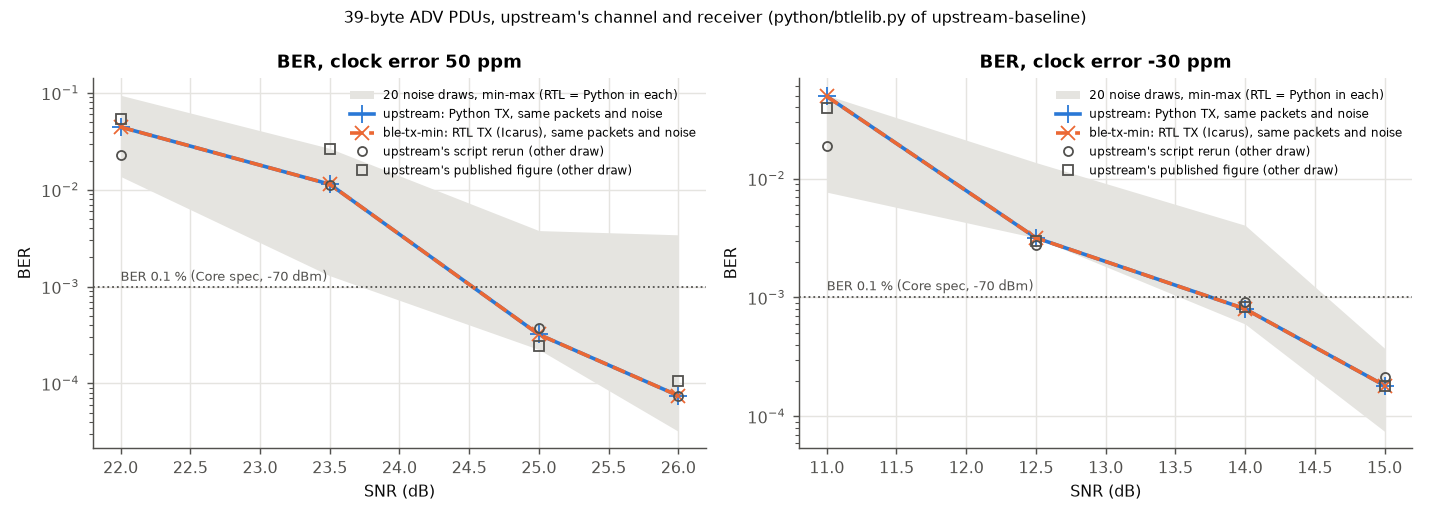
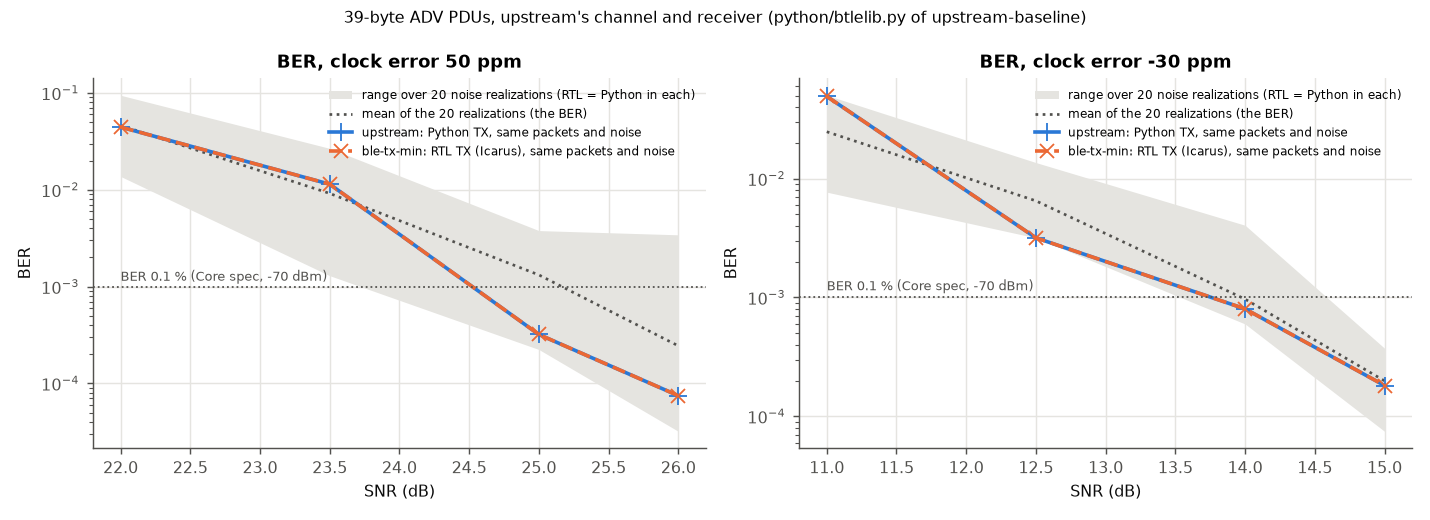
docs: the BER as the mean of the noise realizations; RX_FINAL_DECISIONS.md's cross-branch comparisons
TX_FINAL_DECISIONS.md section 3.3: the estimate of the BER is the mean of the
20 noise realizations (0.1 % at 25.2 dB at 50 ppm and 14.0 dB at -30 ppm), not
their median nor one draw (one draw crosses anywhere in 23.8-25.4 and 13.6-14.4 dB).
The overlay drops upstream's rerun and published points (other draws, kept in
the table) and draws the mean; so do tx_min_ber_ppm*.png, redrawn from the saved
errors by the new `tx_min_figures.py ber-plot` (no simulation).

RX_FINAL_DECISIONS.md: section 3.2 sets its 1 000-packet BER against that mean
(25.12 against 25.17 dB) instead of one-realization values; 3.3 states the noise
of one run; 4, 5.1, 6, 7.1, 7.3 give corrected master, the reference of the
branches' controllers, beside upstream; 8 no longer credits the SRAM with the
GF180 gap (its share is the same in both PDKs).

diff --git a/scripts/figures/tx_min_figures.py b/scripts/figures/tx_min_figures.py
@@ -302,30 +302,52 @@ def fig_ber(out_dir: Path, packets: int, realizations: int) -> None:
                         raise RuntimeError(f"ppm {ppm} snr {snr} realization {r}: RTL and Python BER differ")
                 print(f"ppm {ppm} realization {r}: errors {[c['errors'] for c in curves['rtl']]} (RTL = Python)", flush=True)
                 runs.append(curves)
-        ber = np.array([[c["ber"] for c in run["rtl"]] for run in runs])  # realizations x SNR
         results[ppm] = dict(runs[0], realizations=dict(
             count=realizations, seed="10000000 * realization + 1000 * snr_index + packet + (ppm + 100) * 100000",
             rtl_equals_python_in_every_realization=True,
-            errors=[[c["errors"] for c in run["rtl"]] for run in runs],
-            ber_min=ber.min(axis=0).tolist(), ber_median=np.median(ber, axis=0).tolist(), ber_max=ber.max(axis=0).tolist()))
+            errors=[[c["errors"] for c in run["rtl"]] for run in runs]))
+        _ber_stats(results[ppm])
+    (out_dir / "tx_min_figures_ber.json").write_text(json.dumps(results, indent=2) + "\n")
+    plot_ber(out_dir, results)
+
+
+def _ber_stats(res: dict) -> None:
+    """The band (min, median, max of the realizations) and the mean: all the realizations' errors over
+    all their bits, the BER's estimate (a rare packet whose access address is missed adds 312 errors,
+    so the median of small draws lies below it)."""
+    rz = res["realizations"]
+    bits = np.array([c["bits"] for c in res["rtl"]])
+    err = np.array(rz["errors"])  # realizations x SNR
+    ber = err / bits
+    rz.update(ber_min=ber.min(axis=0).tolist(), ber_median=np.median(ber, axis=0).tolist(),
+              ber_max=ber.max(axis=0).tolist(), ber_mean=(err.sum(axis=0) / (bits * len(err))).tolist())
+
+
+def plot_ber(out_dir: Path, results: dict) -> None:
+    """The figures from the results of fig_ber (tx_min_figures_ber.json): no simulation."""
+    for ppm, res in results.items():
+        _ber_stats(res)
+        rz = res["realizations"]
+        snrs = [c["snr"] for c in res["rtl"]]
+        counts = [c["bits"] // 312 for c in res["rtl"]]
         plt.figure(figsize=(6.4, 4.8))
-        if realizations > 1:
-            plt.fill_between(snrs, np.maximum(ber.min(axis=0), 1e-7), ber.max(axis=0), color="0.85",
-                             label=f"{realizations} noise draws (min-max)")
-        plt.semilogy(snrs, [max(c["ber"], 1e-7) for c in runs[0]["rtl"]], "b+-", markersize=10, label="TX: ble-tx-min RTL")
-        plt.semilogy(snrs, [max(c["ber"], 1e-7) for c in runs[0]["python"]], "rx--", markersize=8, label="TX: upstream's Python model")
+        if rz["count"] > 1:
+            plt.fill_between(snrs, np.maximum(rz["ber_min"], 1e-7), rz["ber_max"], color="0.85",
+                             label=f"range over {rz['count']} noise realizations")
+            plt.semilogy(snrs, rz["ber_mean"], "k:", linewidth=1.5, label=f"mean of {rz['count']} realizations (the BER)")
+        plt.semilogy(snrs, [max(c["ber"], 1e-7) for c in res["rtl"]], "b+-", markersize=10, label="TX: ble-tx-min RTL")
+        plt.semilogy(snrs, [max(c["ber"], 1e-7) for c in res["python"]], "rx--", markersize=8, label="TX: upstream's Python model")
         plt.title(f"BER (Bit Error Rate) with ppm {ppm}")
         plt.xlabel("SNR(dB)")
         plt.ylabel("BER")
         plt.grid()
-        plt.legend(loc="upper right")
+        plt.legend(loc="upper right", fontsize=8)
         plt.figtext(0.5, 0.005, f"39-byte ADV PDUs, random AdvData, {counts} packets per SNR\n"
-                    f"the two lines: the same packets and noise (draw 0); RTL = Python in all {realizations} draws",
+                    f"the two lines: the same packets and noise (realization 0); RTL = Python in all {rz['count']}",
                     ha="center", fontsize=7)
         plt.tight_layout(rect=(0, 0.05, 1, 1))
         plt.savefig(out_dir / f"tx_min_ber_ppm{ppm}.png", dpi=100)
         plt.close()
-    (out_dir / "tx_min_figures_ber.json").write_text(json.dumps(results, indent=2) + "\n")
 
 
 # ---- the transmitter's area per branch ----
@@ -361,7 +383,8 @@ def fig_area(out_dir: Path, area_json: Path) -> None:
 
 def main() -> None:
     p = argparse.ArgumentParser(description=__doc__.split("\n")[0])
-    p.add_argument("figure", choices=("tx", "ber", "area"))
+    p.add_argument("figure", choices=("tx", "ber", "ber-plot", "area"),
+                   help="ber-plot: the BER figures again from out_dir/tx_min_figures_ber.json, no simulation")
     p.add_argument("out_dir", type=Path)
     p.add_argument("area_json", type=Path, nargs="?")
     p.add_argument("--packets", type=int, default=300)
@@ -372,6 +395,11 @@ def main() -> None:
         fig_tx(a.out_dir)
     elif a.figure == "ber":
         fig_ber(a.out_dir, a.packets, a.realizations)
+    elif a.figure == "ber-plot":
+        f = a.out_dir / "tx_min_figures_ber.json"
+        results = json.loads(f.read_text())
+        plot_ber(a.out_dir, results)
+        f.write_text(json.dumps(results, indent=2) + "\n")
     else:
         fig_area(a.out_dir, a.area_json)
 

diff --git a/scripts/figures/tx_final_figures.py b/scripts/figures/tx_final_figures.py
@@ -145,16 +145,13 @@ def fig_ber(d, out):
         b = d["ber"][ppm]
         # the comparison: the same packets and the same noise for both transmitters (draw 0)
         ax.fill_between(b["snr"], b["band_min"], b["band_max"], color=GRID, linewidth=0,
-                        label=f"{b['band_count']} noise draws, min-max (RTL = Python in each)")
+                        label=f"range over {b['band_count']} noise realizations (RTL = Python in each)")
+        ax.semilogy(b["snr"], b["band_mean"], ":", color=INK2, linewidth=1.5,
+                    label=f"mean of the {b['band_count']} realizations (the BER)")
         ax.semilogy(b["snr"], b["upstream_same_noise"], "+-", color=BLUE, markersize=10, linewidth=2,
                     label="upstream: Python TX, same packets and noise")
         ax.semilogy(b["snr"], b["min_rtl"], "x--", color=ORANGE, markersize=8, linewidth=2,
                     label="ble-tx-min: RTL TX (Icarus), same packets and noise")
-        # other noise draws and packets, upstream's script: where they fall, not a comparison
-        ax.semilogy(b["snr"], b["upstream_rerun"], "o", color=INK2, markersize=5, markerfacecolor="none",
-                    label="upstream's script rerun (other draw)")
-        ax.semilogy(b["snr"], b["upstream_published"], "s", color=INK2, markersize=5, markerfacecolor="none",
-                    label="upstream's published figure (other draw)")
         ax.axhline(1e-3, color=INK2, linewidth=1, linestyle=":")
         ax.text(b["snr"][0], 1.15e-3, "BER 0.1 % (Core spec, -70 dBm)", fontsize=7, color=INK2)
         ax.set_title(f"BER, clock error {ppm} ppm")

diff --git a/docs/Final Decisions/RX_FINAL_DECISIONS.md b/docs/Final Decisions/RX_FINAL_DECISIONS.md
@@ -5,7 +5,7 @@
 **Base:** tag `upstream-baseline` (`8540186`), forked from github.com/JiaoXianjun/BTLE  
 **Reference results:** [`open_btle_baseband_chip/`](../../open_btle_baseband_chip/open_btle_baseband_chip.md), upstream's own report (2024-05-13)  
 **Companion:** [TX_FINAL_DECISIONS.md](TX_FINAL_DECISIONS.md) (the transmitter)  
-**Date:** 2026-10-26 (first version 2026-10-23)  
+**Date:** 2026-10-30 (first version 2026-10-23)  
 **Author:** Miguel Simões  
 **Status:** every number below is measured and its evidence is committed on `ble-rx-micro` (§ 11). Pre-layout
 results in 45 nm, a routed FPGA implementation, and signoff-clean layouts of the two receivers in an open
@@ -62,9 +62,9 @@ carries over.
 | SRAM bits in the RX | 32 768 (8 × 512 × 8, two ports) | 2 688 (336 × 8, one port) | **0** | § 4 |
 | RX on the xc7z020: LUTs / flip-flops / RAMB18 / DSP48 | 2 247 / 2 572 / 8 / 48 | **911 / 1 181 / 1 / 2** | **482 / 435 / 0 / 0** | § 6 |
 | `btle_rx` min period, 45 nm (target 62.5 ns) | 1.862 ns | 2.092 ns | **1.461 ns** | § 5 |
-| Switching activity of the controller, `mixed`, against corrected master | −2.9 % | +8.8 % | **−32.4 %** | § 7 |
+| Switching activity of the controller, `mixed`, against corrected master | −2.9 % | +8.8 % | **−32.4 %** (of these, −0.8 and −0.6 points the dead UART removed) | § 7 |
 | RX logic leakage, 45 nm | 1 063.4 µW | 263.2 µW | **138.5 µW** | § 7 |
-| Open-PDK layout | sky130: STA failed (one RX core); global routing failed (whole chip) | **GF180MCU, signoff clean**, with the PDK's SRAM: 513 642 µm² | **GF180MCU, signoff clean**: 144 817 µm² | § 8 |
+| Open-PDK layout | sky130: STA failed (one RX core); global routing failed (whole chip); another PDK and other blocks, not laid out in GF180MCU (§ 8) | **GF180MCU, signoff clean**, with the PDK's SRAM: 513 642 µm² | **GF180MCU, signoff clean**: 144 817 µm² | § 8 |
 | Warnings of synthesis (Vivado, Yosys) and layout (LibreLane) | Vivado: 207 in synthesis, none reviewed | **0 unreviewed** (the gate: Vivado 150, Yosys 0, LibreLane 25, all reviewed exceptions) | **0 unreviewed** (Vivado 150, Yosys 0, LibreLane 16) | § 8.1 |
 
 **In one sentence:** `ble-rx-best` receives every Legacy Advertising packet upstream receives, the same
@@ -162,13 +162,22 @@ point** (upstream: 100/200/300/300), at upstream's four SNR points of each ppm a
 
 | BER 0.1 % at (log-linear interpolation) | 50 ppm | −30 ppm | 20 ppm | 0 ppm |
 |---|---:|---:|---:|---:|
-| upstream, published (`open_btle_baseband_chip.md`) | ≈ 24.5 dB | ≈ 13.5 dB | ≈ 11.5 dB | — |
-| `test_btle_ber.py` rerun, unmodified (`TX_FINAL_DECISIONS.md` § 3.3) | 24.6 dB | 13.9 dB | — | — |
 | upstream's Python receiver, this run (1 000 packets per point) | **25.12 dB** | **14.22 dB** | **12.09 dB** | 8.97 dB |
+| the transmitter's 20 noise realizations together (`TX_FINAL_DECISIONS.md` § 3.3: 100/200/300/300 packets each) | 25.17 dB | 13.97 dB | — | — |
+| one realization of 100/200/300/300 packets: the range over those 20 | 23.8 – 25.4 dB | 13.6 – 14.4 dB | — | — |
+| upstream, published (one realization; read off its figures, its text for 20 ppm) | ≈ 24.6 dB | ≈ 13.8 dB | ≈ 11.5 dB | — |
+| `test_btle_ber.py` rerun, unmodified (one realization) | 24.6 dB | 13.9 dB | — | — |
 
-The three agree to within 0.7 dB, the spread of upstream's few packets per point: the BER of a point near
-the threshold is dominated by the packets whose Access Address is not found (all 312 bits counted wrong),
-a few per hundred (`TX_FINAL_DECISIONS.md` § 3.3).
+**The rows are not one comparison**: each has its own packets and noise. Upstream's published figure and
+the rerun are one realization each at upstream's 100–300 packets per point, and one realization of
+those counts crosses 0.1 % anywhere in a range of 1.5 dB (50 ppm) and 0.8 dB (−30 ppm): both lie in it.
+The BER is the mean over many packets: the 20 realizations together give 25.17 and 13.97 dB, this run's
+1 000 packets per point 25.12 and 14.22 dB (similar packets: the header 0x42 0x25 and 37 random octets
+here, the chip's AdvA and 31 random octets there). One realization tends to lie below the mean: near the
+threshold the BER is dominated by the rare packets whose Access Address is not found (all 312 bits
+counted wrong), which a draw of 100–300 packets often does not hold. 1 000 packets are few for them too
+at −30 ppm: at 14 dB one such packet makes 312 of the 543 errors, and without it the curve would cross
+at about 13.8 dB.
 
 ### 3.3 Packet error rate of the RTL receivers
 
@@ -177,7 +186,9 @@ a few per hundred (`TX_FINAL_DECISIONS.md` § 3.3).
 The same packets and samples as § 3.2, fed to the RTL of the three receivers (`tb_rx_ber.v`, Icarus; each
 receiver with its defaults, one sample every second clock), and upstream's Python receiver beside them. A
 packet is received when the receiver gives it with the right CRC and the PDU sent. 1 000 packets per point,
-the bars the Wilson 95 % interval; 32 000 packets per receiver.
+the bars the Wilson 95 % interval; 32 000 packets per receiver. Each SNR at PER 10 % is one noise
+realization of 1 000 packets per point (about ±0.1 dB from the noise); the differences between the
+receivers are measured on the same samples, so the noise does not enter them.
 
 | SNR at PER 10 % (log-linear) | 0 ppm | 20 ppm | −30 ppm | 50 ppm |
 |---|---:|---:|---:|---:|
@@ -197,7 +208,8 @@ the bars the Wilson 95 % interval; 32 000 packets per receiver.
   about 3 %, with 5–6 dB almost none (0 ppm: 0.5 % at 13 dB, 0 at 14 dB).
 - With the packet at a random time (64–127 samples and a fraction of a sample after the start: the
   receiver does not know the symbol timing), every receiver needs 0.2–0.7 dB more (PER 10 % at 9.53,
-  12.22, 14.73 and 25.73 dB for upstream), and the picture is the same: upstream's RTL, `ble-rx-best` and
+  12.22, 14.73 and 25.73 dB for upstream; another run, other noise: the smallest of these differences is
+  about twice the uncertainty of one run), and the picture is the same: upstream's RTL, `ble-rx-best` and
   the Python receiver receive the same 25 175 packets of 32 000, and `ble-rx-micro` needs 11.04, 14.03,
   16.43 and 28.18 dB (+1.5, +1.8, +1.7, +2.5 dB)
   ([`rx_final_per_random.png`](../../results/figures/rx-final/rx_final_per_random.png),
@@ -265,6 +277,11 @@ included, untouched):
 | upstream | 50 295 | 4 578 | 71 706.4 | 15 / 1 136 070 |
 | `ble-rx-best` | 23 119 | 4 003 | 38 680.9 | 8 / 1 105 990 |
 | `ble-rx-micro` | 19 525 | 3 419 | 32 988.5 | 7 / 1 103 302 |
+| corrected master (`TX_FINAL_DECISIONS.md` § 4) | 52 357 | 4 722 | 74 684.8 | 15 / 1 136 070 |
+
+The two branches are corrected master with their receiver, so corrected master is their controllers'
+reference: −48.2 % and −55.8 % against it. Against upstream (−46.1 %, −54.0 %) the difference also holds
+corrected master's own changes, 2 978.4 µm² more than upstream, most in its transmitter.
 
 ## 5. Timing
 
@@ -282,7 +299,9 @@ clock-to-Q + setup (Nangate45 typical, no wires); target 62.5 ns (the 16 MHz bas
 The one multiplier of `ble-rx-best` takes its operands through a multiplexer in the clock of the history
 read (+0.23 ns; ABC's mapping moves it by about 0.1 ns from run to run); `ble-rx-micro`'s 8-bit one is the shortest receiver of every branch. The controllers of
 the two branches time at the transmitter of corrected master (the audit's Gaussian tail,
-`TX_FINAL_DECISIONS.md` § 5.1); at 16 MHz none of it matters (slack > 59 ns). `ble-rx-best`'s macro and
+`TX_FINAL_DECISIONS.md` § 5.1): corrected master's controller has a min period of 3.410 ns on that path,
+so against it the two branches move the controller by −0.034 and +0.007 ns; the step from upstream's
+1.991 ns is the transmitter's, not the receivers'. At 16 MHz none of it matters (slack > 59 ns). `ble-rx-best`'s macro and
 its address are not timed here (no timing model; § 8 times the GF180 SRAM).
 
 ### 5.2 In the FPGA and in GF180MCU
@@ -327,6 +346,10 @@ pins, the resets deasserted in the power analysis; § 8.1), the same for the thr
 - **The receiver goes from 2 247 LUTs to 911 and 482** (−59 % and −79 %), its flip-flops from 2 572 to
   1 181 and 435. The 2024 receiver (1 544 LUTs, its packet RAMs in 96 LUTRAM) is the published flow's,
   with IOs; it is the calibration of the flow, not a configuration compared.
+- **The controller rows hold corrected master's transmitter**, not upstream's: corrected master's
+  controller is 4 535 LUTs / 5 900 flip-flops, 38 block RAM tiles, 48 DSPs, 0.211 W
+  (`TX_FINAL_DECISIONS.md` § 6). Against it the branches' controllers take 1 124 and 1 550 LUTs and
+  1 391 and 2 137 flip-flops fewer.
 - Vivado's power is vectorless (default toggle rates) and rounds to 1 mW: an estimate; 0.106 W of every
   total is the device's static power.
 
@@ -374,7 +397,8 @@ more than upstream**: one multiplier computes two products in two clocks, its op
 the single-port RAM's clock-domain logic (132 flip-flops on the AXI clock) toggle; the clock load falls
 (−15.1 %), the data rises (+62.9 %). **`ble-rx-micro` switches a third less**: one decoder instead of
 eight, 584 flip-flops fewer, an 8-bit datapath (clock −27.4 %, data −43.7 % in `mixed`). The cleanup of
-§ 8.1 removes no logic that toggles but the link layer's dead TX UART: −0.8 and −0.6 points.
+§ 8.1 removes no logic that toggles but the link layer's dead TX UART: −0.8 and −0.6 points, which
+corrected master still has; the receivers' own share is about +9.6 % and −31.8 %.
 
 **7.2 The SRAMs' energy (SPICE).** **`ble-rx-best`'s 336 × 8 macro could not be characterized**: OpenRAM's flow probes the address of all ones, which a 336-word macro lacks; `openram_char.py` now probes its last word, and then the measurement at a 5 ns period fails (ngspice: "Couldn't run a simulation", `results/power/sram-char-rx-final-5ns/`), and the search for a feasible period did not end within the 6 h limit (`results/power/sram-char-rx-final/`). **Upstream's 512 × 8 two-port macro** (eight in its receiver) could not be characterized either: it did not finish in 6 h in run `sram-char`, and run again without that limit it ended after 14.4 h with OpenRAM's "Sense amp enable timing error" at the 5 ns period (`results/power/sram-char-rx-final-upstream/`): the macro as generated does not read at that period, and its energy stays unknown. For reference, the one-port 512 × 8 of `ble-rx-min` (the same column width, more words on each bitline) costs 1.161 pJ per write, 1.068 pJ per read and 25.11 µW of settled leakage (`RX_BRANCH_COMPARISON.md` § 15.4): a bound from above for `ble-rx-best`'s macro. `ble-rx-micro` has no SRAM.
 
@@ -388,7 +412,9 @@ eight, 584 flip-flops fewer, an 8-bit datapath (clock −27.4 %, data −43.7 % 
 | **`ble-rx-micro`** | **138.51 µW** | 62.26 µW | 675.53 µW |
 
 The macros are not included (§ 7.2). In this 45 nm library (predictive, leaky) the logic dominates:
-upstream's receiver leaks 7.7 times `ble-rx-micro`'s.
+upstream's receiver leaks 7.7 times `ble-rx-micro`'s. The controller column holds corrected master's
+transmitter in the two branches: it leaks 182.58 µW against upstream's 112.61 µW
+(`TX_FINAL_DECISIONS.md` § 7.3), about 70 µW of the branches' controllers that is not the receiver's.
 
 **7.4 In GF180MCU** (§ 8), OpenSTA's vectorless estimate at 5 V, the default activity of every net:
 67.54 mW for `ble-rx-best` (its SRAM's internal power included) and 23.51 mW for `ble-rx-micro`; leakage
@@ -423,7 +449,7 @@ The thesis laid out the two final receivers, `btle_rx` alone, with LibreLane (Op
 | DRC, KLayout (the foundry's deck, whole GDS) | **0** (the SRAM's inside included) | **0** |
 | DRC, Magic | 2 516, **all inside the GlobalFoundries SRAM** (`magic_drc_sram.txt`: 0 outside it), whose own layout Magic's deck rejects | 0 |
 | LVS (Netgen) / antenna / routing DRC | clean / 0 / 0 | clean / 0 / 0 |
-| Worst setup slack: ss / tt / ff | +13.934 / +36.258 / +42.954 ns | +2.266 / +8.463 / +11.202 ns (`clkb` at 20 ns) |
+| Worst setup slack: ss / tt / ff | +13.934 / +36.258 / +42.954 ns (`clkb` at 62.5 ns) | +2.266 / +8.463 / +11.202 ns (`clkb` at 20 ns) |
 | Worst hold slack (9 corners) | +0.157 ns | +0.124 ns |
 | Max slew / max capacitance violations | 0 / 0 | 0 / 0 |
 | Max fanout (10, LibreLane's for the PDK; the liberty sets none) | every data net within it; 7 clock-tree buffers at 11–13 | every data net within it; 1 clock-tree buffer at 11 |
@@ -440,8 +466,13 @@ The thesis laid out the two final receivers, `btle_rx` alone, with LibreLane (Op
 | Taps, end caps, antenna diodes | 33 274.8 | 17 232.3 |
 | **Placed cells + macros** | **513 641.6** | **144 817.2** (−71.8 %) |
 
-- **In GF180MCU the gap widens**: `ble-rx-micro` is 28.2 % of `ble-rx-best` (33.4 % in 45 nm), because
-  the PDK's smallest SRAM that holds 336 words is a 512 × 8 of 209 400 µm², sized for its periphery.
+- **In GF180MCU the gap widens**: `ble-rx-micro` is 28.2 % of `ble-rx-best` (33.4 % in 45 nm), and not
+  through the SRAM, which is about the same share of `ble-rx-best` in both (40.8 % here, 38.8 % in
+  45 nm). Without it `ble-rx-micro` is 47.6 % of the rest of `ble-rx-best` here, 54.6 % in 45 nm:
+  `ble-rx-best` has 2.9 times the timing-repair buffers and clock trees (its tighter targets, below),
+  1.9 times the taps and end caps (a die of 1 150 µm against 760 µm, sized for the SRAM) and 2.0 times
+  the logic (1.8 times in 45 nm). The two runs differ in settings (the targets below; `clkb` at 16 and
+  50 MHz): the ratio is of these two layouts, not of the two receivers alone.
 - The settings of the two runs, all recorded in `run.sh` (§ 8.1): `ble-rx-best` places and routes with
   tighter targets (max transition 2.0 ns, max fanout 8, signoff with the library's: without them pins of
   one net end 0.03 ns over the max slew at ss), its SRAM at x = 70 µm (at 60 a strap of the power grid

diff --git a/docs/Final Decisions/TX_FINAL_DECISIONS.md b/docs/Final Decisions/TX_FINAL_DECISIONS.md
@@ -4,7 +4,7 @@
 **Branch:** `ble-tx-min` (the runs of this document: `a613226`, and after the synthesis-warning cleanup `b81bf288`, the same circuit, proved: § 8.1)  
 **Base:** tag `upstream-baseline` (`8540186`), forked from github.com/JiaoXianjun/BTLE  
 **Reference results:** [`open_btle_baseband_chip/`](../../open_btle_baseband_chip/open_btle_baseband_chip.md), upstream's own report (2024-05-13)  
-**Date:** 2026-10-27 (first version 2026-10-17)  
+**Date:** 2026-10-30 (first version 2026-10-17)  
 **Author:** Miguel Simões  
 **Status:** every number below is measured and its evidence is committed (§ 12). Pre-layout
 results in 45 nm, a routed FPGA implementation, and a signoff-clean layout of the transmitter in an open
@@ -54,7 +54,7 @@ rate and the SRAMs' energy (§§ 3, 7.2) those of `a613226`, which the proof car
 | Worst path | RX demodulator | TX Gaussian tail | **RX demodulator** | RX demodulator | § 5 |
 | Switching activity of the controller, `mixed` | — | reference | **−5.15 %** | −1.58 % | § 7 |
 | TX leakage, 45 nm: logic + SRAM (µW) | 112.61 + not characterized | 182.58 + not characterized | **51.71 + 16.41 = 68.12** | 87.84 + 0 = 87.84 | § 7 |
-| BER 0.1 % at 50 ppm / −30 ppm | ≈ 24.5 / ≈ 13.5 dB (published); 24.5 / 13.8 dB with the same noise as the RTL | — | **24.5 / 13.8 dB** (RTL; the same errors as upstream's TX in 20 noise draws) | the same TX bits | § 3.3 |
+| BER 0.1 % at 50 ppm / −30 ppm | 25.2 / 14.0 dB (the mean of 20 noise realizations; its published figure, one realization: ≈ 24.6 / ≈ 13.8 dB) | — | **the same** (RTL: the same errors as upstream's TX in each of the 20 realizations) | the same TX bits | § 3.3 |
 | Open-PDK layout | sky130: global routing failed (whole chip); STA failed (RX core) | — | **GF180MCU, signoff clean**, with the AdvA OTP: 234 009.0 µm² | 160 784.9 µm² | § 8 |
 | Warnings of synthesis (Vivado, Yosys) and layout (LibreLane) | Vivado: 207 in synthesis, none reviewed | Vivado: 206 | **0 unreviewed** (Vivado 109 in synthesis, Yosys 0, LibreLane 37, all reviewed exceptions) | **0 unreviewed** (109, 0, 29) | § 8.1 |
 
@@ -149,7 +149,8 @@ It stands here for the form of the result (axes, SNR points, where the curve cro
 comparison is inside the right column: the same packets and the same noise through the `ble-tx-min` RTL
 (blue) and upstream's Python transmitter (red, `btle_tx` of `python/btlelib.py`, whose transmitter is
 upstream's to the bit: the thesis changed only where it writes its debug files). The two lines are one.
-The grey band is how far the BER of these packet counts moves from one noise draw to another (20 draws).
+The grey band is how far the BER of these packet counts moves from one noise draw to another (20 draws),
+and the dotted line is their mean (all their errors over all their bits): the estimate of the BER.
 
 ![BER overlay](../../results/figures/tx-final/tx_final_ber.png)
 
@@ -162,22 +163,23 @@ seed for the RTL's waveform and the Python model's: **in all 20 draws, at every 
 same errors** (`results/figures/tx-min/tx_min_figures_ber.json`; draw 0 is the one of the first version of
 this document, reproduced exactly). Upstream's script run again unmodified
 (`results/figures/tx-final/upstream_ber_rerun.txt`) and its published figure (read off the PNG, about
-±2 %) are two more draws, with their own packets: they are placed against the band, not against a line.
+±2 %) are two more draws, with their own packets: they are in the table, placed against the band, and
+not in the figure, whose lines share their packets and noise.
 
-| SNR (dB) | upstream TX, same noise | **`ble-tx-min` RTL, same noise** | 20 draws: min – median – max | upstream rerun | upstream published |
-|---:|---:|---:|---:|---:|---:|
-| **50 ppm** | | | | | |
-| 22.0 | 4.45 × 10⁻² | **4.45 × 10⁻²** | 1.4 × 10⁻² – 4.4 × 10⁻² – 9.5 × 10⁻² | 2.27 × 10⁻² | ≈ 5.4 × 10⁻² |
-| 23.5 | 1.14 × 10⁻² | **1.14 × 10⁻²** | 1.3 × 10⁻³ – 1.1 × 10⁻² – 2.7 × 10⁻² | 1.12 × 10⁻² | ≈ 2.7 × 10⁻² |
-| 25.0 | 3.21 × 10⁻⁴ | **3.21 × 10⁻⁴** | 2.2 × 10⁻⁴ – 3.4 × 10⁻⁴ – 3.8 × 10⁻³ | 3.74 × 10⁻⁴ | ≈ 2.5 × 10⁻⁴ |
-| 26.0 | 7.48 × 10⁻⁵ | **7.48 × 10⁻⁵** | 3.2 × 10⁻⁵ – 7.5 × 10⁻⁵ – 3.4 × 10⁻³ | 7.48 × 10⁻⁵ | ≈ 1.1 × 10⁻⁴ |
-| BER 0.1 % at | 24.5 dB | **24.5 dB** | median: 24.5 dB | 24.6 dB | 24.6 dB |
-| **−30 ppm** | | | | | |
-| 11.0 | 4.92 × 10⁻² | **4.92 × 10⁻²** | 7.7 × 10⁻³ – 2.0 × 10⁻² – 5.0 × 10⁻² | 1.89 × 10⁻² | ≈ 3.9 × 10⁻² |
-| 12.5 | 3.17 × 10⁻³ | **3.17 × 10⁻³** | 3.2 × 10⁻³ – 4.1 × 10⁻³ – 1.4 × 10⁻² | 2.79 × 10⁻³ | ≈ 3.0 × 10⁻³ |
-| 14.0 | 8.01 × 10⁻⁴ | **8.01 × 10⁻⁴** | 6.0 × 10⁻⁴ – 8.2 × 10⁻⁴ – 4.0 × 10⁻³ | 9.08 × 10⁻⁴ | ≈ 8.4 × 10⁻⁴ |
-| 15.0 | 1.82 × 10⁻⁴ | **1.82 × 10⁻⁴** | 7.5 × 10⁻⁵ – 1.9 × 10⁻⁴ – 3.7 × 10⁻⁴ | 2.14 × 10⁻⁴ | ≈ 1.8 × 10⁻⁴ |
-| BER 0.1 % at | 13.8 dB | **13.8 dB** | median: 13.8 dB | 13.9 dB | 13.8 dB |
+| SNR (dB) | upstream TX, same noise | **`ble-tx-min` RTL, same noise** | 20 draws: min – median – max | **20 draws: mean** | upstream rerun | upstream published |
+|---:|---:|---:|---:|---:|---:|---:|
+| **50 ppm** | | | | | | |
+| 22.0 | 4.45 × 10⁻² | **4.45 × 10⁻²** | 1.4 × 10⁻² – 4.4 × 10⁻² – 9.5 × 10⁻² | **4.63 × 10⁻²** | 2.27 × 10⁻² | ≈ 5.4 × 10⁻² |
+| 23.5 | 1.14 × 10⁻² | **1.14 × 10⁻²** | 1.3 × 10⁻³ – 1.1 × 10⁻² – 2.7 × 10⁻² | **9.18 × 10⁻³** | 1.12 × 10⁻² | ≈ 2.7 × 10⁻² |
+| 25.0 | 3.21 × 10⁻⁴ | **3.21 × 10⁻⁴** | 2.2 × 10⁻⁴ – 3.4 × 10⁻⁴ – 3.8 × 10⁻³ | **1.32 × 10⁻³** | 3.74 × 10⁻⁴ | ≈ 2.5 × 10⁻⁴ |
+| 26.0 | 7.48 × 10⁻⁵ | **7.48 × 10⁻⁵** | 3.2 × 10⁻⁵ – 7.5 × 10⁻⁵ – 3.4 × 10⁻³ | **2.45 × 10⁻⁴** | 7.48 × 10⁻⁵ | ≈ 1.1 × 10⁻⁴ |
+| BER 0.1 % at | 24.5 dB | **24.5 dB** | one draw: 23.8 – 25.4 dB | **25.2 dB** | 24.6 dB | 24.6 dB |
+| **−30 ppm** | | | | | | |
+| 11.0 | 4.92 × 10⁻² | **4.92 × 10⁻²** | 7.7 × 10⁻³ – 2.0 × 10⁻² – 5.0 × 10⁻² | **2.48 × 10⁻²** | 1.89 × 10⁻² | ≈ 3.9 × 10⁻² |
+| 12.5 | 3.17 × 10⁻³ | **3.17 × 10⁻³** | 3.2 × 10⁻³ – 4.1 × 10⁻³ – 1.4 × 10⁻² | **6.50 × 10⁻³** | 2.79 × 10⁻³ | ≈ 3.0 × 10⁻³ |
+| 14.0 | 8.01 × 10⁻⁴ | **8.01 × 10⁻⁴** | 6.0 × 10⁻⁴ – 8.2 × 10⁻⁴ – 4.0 × 10⁻³ | **9.68 × 10⁻⁴** | 9.08 × 10⁻⁴ | ≈ 8.4 × 10⁻⁴ |
+| 15.0 | 1.82 × 10⁻⁴ | **1.82 × 10⁻⁴** | 7.5 × 10⁻⁵ – 1.9 × 10⁻⁴ – 3.7 × 10⁻⁴ | **1.99 × 10⁻⁴** | 2.14 × 10⁻⁴ | ≈ 1.8 × 10⁻⁴ |
+| BER 0.1 % at | 13.8 dB | **13.8 dB** | one draw: 13.6 – 14.4 dB | **14.0 dB** | 13.9 dB | 13.8 dB |
 
 (0.1 % by log-linear interpolation between the points.) What the table shows:
 
@@ -186,14 +188,19 @@ this document, reproduced exactly). Upstream's script run again unmodified
 - **The noise draw changes a lot at low SNR**: at 22 dB the 20 draws span 1.4 × 10⁻² to 9.5 × 10⁻², a
   factor of 7. A packet whose access address is not found counts all its 312 bits as wrong, so at 100
   packets each lost packet adds 1 × 10⁻² to the BER; at 25–26 dB one lost packet in 300 lifts the point
-  by about 3 × 10⁻³ (the band's top). The median, not one draw, is the estimate.
+  by about 3 × 10⁻³ (the band's top). Such packets are rare, so most draws hold none near the threshold:
+  the median lies below the mean (25 dB, 50 ppm: 3.4 × 10⁻⁴ against 1.32 × 10⁻³). The estimate of the BER
+  is the mean of the 20 draws (6 000 packets at the top two points), not one draw nor their median.
 - **Upstream's two runs fall where another draw falls**: 14 of their 16 points lie inside the band. The
   exceptions, −30 ppm at 12.5 dB (rerun 2.79 × 10⁻³, published ≈ 3.0 × 10⁻³, band from 3.17 × 10⁻³), are
   within 12 % of the band's edge, and their packets are not ours (fully random payloads, against the
   chip's AdvA plus random AdvData); 20 draws of one set of packets do not cover every set.
-- **The 0.1 % point**: 24.5–24.6 dB at 50 ppm and 13.8–13.9 dB at −30 ppm in every curve (upstream's report
-  writes "about 13.5" for the latter, read off its figure). The Core spec's sensitivity is met at the
-  same SNR.
+- **The 0.1 % point**: **25.2 dB at 50 ppm and 14.0 dB at −30 ppm**, the mean of the 20 draws (as the
+  receiver's 1 000 packets per point give, 25.12 and 14.22 dB: `RX_FINAL_DECISIONS.md` § 3.2). One draw
+  of these packet counts crosses anywhere in 23.8–25.4 dB and 13.6–14.4 dB; the RTL's draw 0 (24.5,
+  13.8 dB), upstream's rerun (24.6, 13.9 dB) and its published figure (24.6, 13.8 dB; its report writes
+  "about 13.5" for the latter) are three such draws. The transmitter moves none of them: the Core spec's
+  sensitivity is met at the same SNR with either transmitter.
 
 In the first version of this document the table and the overlay set one draw of the RTL against the
 rerun, another draw, and the RTL looked worse at the lowest SNR (4.45 against 2.27 × 10⁻² at 22 dB). That
@@ -672,7 +679,7 @@ BT = 0.5, modulation index 0.5); rewriting a packet byte while it is sent; an AX
 | Layout and OTP | `results/layout/tx-clean-gf180*/` (the first version: `tx-min-gf180*`, again at `a359b08a`: `tx-before-gf180*`), `results/otp/gf180-efuse/` | `scripts/layout/tx_min_gf180/run.sh <label> <rev> [sram64]` (`TX_MIN_VALIDATION.md` § 10) |
 | The cleanup: equivalence, validation, warning gate | `results/validation/min-clean/equiv_cleanup/`, `min-clean-*/`; `results/validation/tx-clean-warning-gate.txt` | `scripts/validation/equiv_cleanup/run_equiv_cleanup.sh <label> a359b08a`; `scripts/validation/synth_warning_gate.py --vivado <log> --yosys <area dir> --librelane <layout dir>` |
 | Validation | `results/validation/min-*` | `TX_MIN_VALIDATION.md` § 10 |
-| Figures of §§ 3–8 | `results/figures/tx-min/`, `results/figures/tx-final/` (`data.json` names the source of every number) | `python3 scripts/figures/tx_min_figures.py tx|ber <dir>` (`ber`: `--realizations 20`, the default; in a Windows worktree under WSL, `BTLE_UPSTREAM_PY=<upstream-baseline's python/, extracted>`); `python3 scripts/figures/tx_final_figures.py results/figures/tx-final/data.json <dir>` |
+| Figures of §§ 3–8 | `results/figures/tx-min/`, `results/figures/tx-final/` (`data.json` names the source of every number) | `python3 scripts/figures/tx_min_figures.py tx|ber|ber-plot <dir>` (`ber-plot`: the BER figures again from `tx_min_figures_ber.json`, no simulation; `ber`: `--realizations 20`, the default; in a Windows worktree under WSL, `BTLE_UPSTREAM_PY=<upstream-baseline's python/, extracted>`); `python3 scripts/figures/tx_final_figures.py results/figures/tx-final/data.json <dir>` |
 | Upstream's BER, rerun | `results/figures/tx-final/upstream_ber_rerun.txt` | `git archive upstream-baseline python \| tar -x; cd python; python3 test_btle_ber.py 50` (and `-30`) |
 
 Related reports: `docs/Validation/TX_MIN_VALIDATION.md` (this branch in full), `TX_ROM_VALIDATION.md`,

diff --git a/CHANGES.md b/CHANGES.md
@@ -92,6 +92,7 @@ progress and says so.
 | 2026-10-27 | validation | *Branch `ble-tx-min`.* `scripts/validation/synth_warning_gate.py` and `synth_warning_exceptions.tsv` (from `ble-rx-micro`, with the transmitter's exceptions); `impl.tcl` mode `ooc_hd`; `run_activity.sh` gives the RAM models `rst` for the reference's netlist; the GF180 layout's settings (no I/O cells, no heuristic diodes, the macros timed by their liberties; the eFuse blocks and the SRAM placed so that every strap of the power grid gets its vias, no pins under the eFuse row for the SRAM's floorplan, the slew repair's margin, the clock tree's sink clustering; `CONFIG_OVERRIDES`). | `results/validation/tx-clean-warning-gate.txt` |
 | 2026-10-27 | compare | *Branch `ble-tx-min`.* Run `tx-clean`: both AdvData stores after the cleanup, every synthesis and layout result again (45 nm, xc7z020, GF180MCU), the validation again (144/144, 270/270, 6/6, lint 4/4, the SRAM's model 144/144). 0 unreviewed warnings in Vivado, Yosys and LibreLane; both layouts signoff clean, every strap with its vias. `TX_FINAL_DECISIONS.md` updated, new § 8.1. | `docs/Final Decisions/TX_FINAL_DECISIONS.md` |
 | 2026-10-28 | docs | *Branch `ble-tx-min`.* The BER of `TX_FINAL_DECISIONS.md` § 3.3 compared like with like: the overlay and the table set the RTL against upstream's Python transmitter with the same packets and noise (they were set against upstream's script rerun, another noise draw, which made the RTL look worse at the lowest SNR); `tx_min_figures.py ber` runs 20 noise draws (`--realizations`, draw 0 the published one, reproduced exactly), RTL = Python in every draw, the band of the draws drawn in both figures; upstream's rerun and published points (read off its PNG) placed against the band; `BTLE_UPSTREAM_PY` for a Windows worktree under WSL. | `results/figures/tx-min/tx_min_figures_ber.json`, `results/figures/tx-final/` |
+| 2026-10-30 | docs | *Every branch.* The BER and the cross-branch comparisons of the final decisions: `TX_FINAL_DECISIONS.md` § 3.3 takes the mean of the 20 noise realizations as the BER (0.1 % at 25.2 and 14.0 dB; the median and one draw lie below it, one draw crossing anywhere in 23.8–25.4 and 13.6–14.4 dB); its figure drops upstream's rerun and published points (another draw each, in the table) and draws the mean, as do `tx_min_ber_ppm*.png` (`tx_min_figures.py ber-plot`: from the saved errors, no simulation). `RX_FINAL_DECISIONS.md` § 3.2 sets its 1 000-packet BER against that mean (25.12 against 25.17 dB) instead of one-realization values; § 3.3 states the noise of one run; §§ 4, 5.1, 6, 7.1, 7.3 give corrected master, the reference of the branches' controllers, beside upstream; § 8 no longer credits the SRAM with the GF180 gap. | `results/figures/tx-final/`, `results/figures/tx-min/` |
 
 ## Files inherited and not modified
 

diff --git a/docs/Validation/TX_MIN_VALIDATION.md b/docs/Validation/TX_MIN_VALIDATION.md
@@ -353,7 +353,7 @@ model, 0 samples differ in every case.
 | `tx_min_py_fig3.png` | `py-fig3.png` | upstream's own packet, example 2 (PDU `0100`, channel 10, 656 samples, the same axes as upstream's): upsampled bit, Gaussian filter output, normalized frequency offset; I and Q, all from the RTL |
 | `tx_min_py_fig4.png` | `py-fig4.png` | the same waveform after upstream's channel (20 dB, 0 ppm), the receiver's decision signal and best phase: CRC OK, the PDU received equal to the one sent |
 | `tx_min_py_fig3_adv.png`, `tx_min_py_fig4_adv.png` | — | the same two figures for a 39-byte ADV PDU (AdvA from the ROM, upstream's BER AdvData, channel 37, 3 024 samples), the channel 20 dB and 20 ppm: CRC OK, the PDU received equal to the one sent |
-| `tx_min_ber_ppm50.png`, `tx_min_ber_ppm-30.png` | `open_btle_baseband_chip_21_1.png`, `_23_1.png` | BER against SNR at 50 and −30 ppm, 39-byte ADV PDUs with random AdvData (100/200/300/300 packets per point), the transmitter the RTL and, with the same noise, upstream's Python model: the two curves are identical, in each of 20 noise draws (the grey band: min–max of the draws; the lines: draw 0); 0.1 % BER at about 24.5 dB (50 ppm) and 13.8 dB (−30 ppm), as upstream's. Upstream's published figure is another draw, not a comparison (`TX_FINAL_DECISIONS.md` § 3.3) |
+| `tx_min_ber_ppm50.png`, `tx_min_ber_ppm-30.png` | `open_btle_baseband_chip_21_1.png`, `_23_1.png` | BER against SNR at 50 and −30 ppm, 39-byte ADV PDUs with random AdvData (100/200/300/300 packets per point), the transmitter the RTL and, with the same noise, upstream's Python model: the two curves are identical, in each of 20 noise draws (the grey band: min–max of the draws; the dotted line: their mean, the BER's estimate; the two lines: draw 0); 0.1 % BER at 25.2 dB (50 ppm) and 14.0 dB (−30 ppm) for the mean, anywhere in 23.8–25.4 and 13.6–14.4 dB for one draw. Upstream's published figure (24.6, 13.8 dB) is one such draw, not a comparison (`TX_FINAL_DECISIONS.md` § 3.3) |
 | `tx_min_area.png` | — | the transmitter's area (logic and macros) of `master`, `ble-tx-rom` and both stores of this branch |
 | `efuse_async_mem_1x8.png`, `efuse_xyce.png` | — | the eFuse block's layout (KLayout) and its Xyce programming and sensing waveforms |
 | `tx_min_gf180_gds.png` | `btle-top-openlane-detailed-placement-cts.png`, `btle_rx_core-openlane-GDSII.png` | the GDS of § 7 (KLayout, the PDK's layer colours): the logic above, the six eFuse blocks in a row at the bottom |
